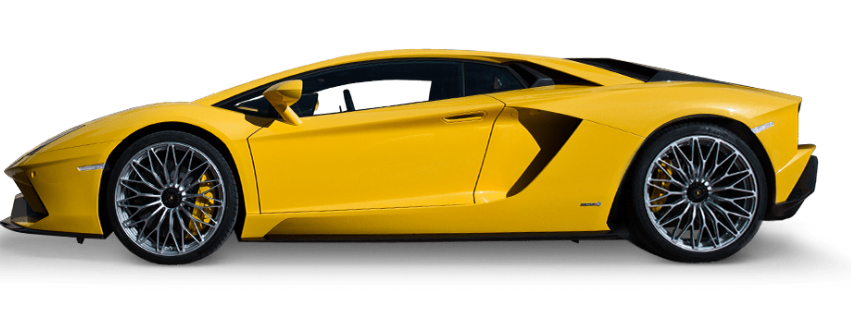
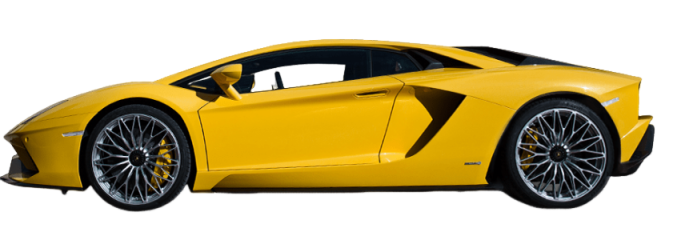
Terceiro commit. Criação da estilização, ajustes no html e novas imagens sem fundo.

diff --git a/style.css b/style.css
@@ -1,0 +1,200 @@
+*{
+    margin: 0;
+    padding: 0;
+    box-sizing: border-box;
+    list-style: none; /* Tira as bolinhas dos itens da lista*/
+}
+
+body{
+    background-color: #000000;
+    color: #ffffff;
+    font-style: 16px;
+    overflow: hidden; /* Tira a barra de rolagem*/
+}
+
+header {     
+    width: 100vw;    
+    position: fixed;
+    left: 50%;
+    transform: translateX(-50%);
+    display: grid;
+    align-items: center;
+    grid-template-columns: 1fr 600px;
+    z-index: 2; /* Trás o header para frente da section pois ela é relative*/
+   
+
+    & h1 {
+        margin-left: 150px;
+        margin-right: 100px;
+        font-size: 60px;
+        color: #cd0000;
+    }
+    
+    & nav {
+        & ul {
+            display: grid;
+            grid-template-columns: repeat(3, 150px);            
+        }
+    }
+
+    & a {
+        color: #ffffff;
+        font-size: 25px;
+        text-decoration: none;
+
+        &:hover {
+            color: #beff1b;
+        }
+    }
+}
+
+section {
+    background-image: radial-gradient(#470964, #791fd3);
+    height: 100vh;
+    position: relative;
+
+    & .list {
+        width: 70vw;
+        height: 100%;
+        margin: auto; /* Centraliza a div list */
+        position: relative;
+
+        & .item {
+            position: absolute; /* Posicionar a imagem onde desejarmos na tela */
+            inset: 0; /* É o mesmo que setar o top, botton, left e right todos com esse valor */
+
+            & .car-img {
+                position: absolute;
+                top: 50%;
+                transform: translateY(-50%);
+                width: 70%;
+
+                & img {
+                    width: 80%;
+                    transform: rotate(-20deg); /* Rotação do carro */
+                }
+            }
+        }
+
+        & .content {
+            position: absolute;
+            right: 100px;
+            width: 70%;
+            height: 100%;
+            margin-top: 35px;
+            display: flex;
+            flex-direction: column;
+            justify-content: center; /* Joga toda a div content para o centro*/
+            align-items: end; /* Alinha todos os itens dentro da div a direita*/
+            gap: 20px;            
+
+            & .car-information {
+                font-size: 25px;
+                font-weight: bold;
+            }
+
+            & h2 {
+                font-size: 120px;
+                line-height: 100px ;
+                margin-bottom: 40px;
+            }
+
+            & .description {
+                color: #d9d9d9;
+                font-size: 25px;
+                text-align: right;
+                max-width: 700px;
+            }
+
+            & .information {
+                border-radius: 30px;
+                height: 55px;
+                width: 180px;
+                text-transform: uppercase; /* Transforma todo o texto em maiusculo*/
+                border: 2px solid #791fd3;
+                background-color: #beff1b;
+                color: #000000;
+                cursor: pointer;
+                font-weight: bold;
+                font-size: 16px;
+            }
+        }
+
+        /* Linha entre as duas setas*/
+        &::before {
+            content: '';
+            position: absolute;
+            height: 200px;
+            width: 100%;
+            top: 50%;
+            border-top: 1px solid #ffffff
+        }
+    }
+   
+    & .arrows {
+        width: 71vw; /* Distância entre as setas*/
+        position: absolute;
+        top: 50%;
+        left: 50%;
+        transform: translate(-50%, -25px); /* Parâmetros X e Y*/
+        display: flex;
+        justify-content: space-between;
+
+        & button {
+            top: 60%;
+            width: 50px;
+            height: 50px;
+            border-radius: 50%;
+            border: none;
+            cursor: pointer;
+
+            & img {
+               width: 30px;
+               cursor: pointer; 
+            }
+
+            &:hover {
+                background-color: #beff1b;
+            }
+        }
+    }
+
+    & .indicators {
+        position: absolute;
+        top: 50%;
+        left: 50%;
+        transform: translate(-50%);
+        height: 200px;
+        width: 90vw;
+        display: flex;
+        flex-direction: column;
+        justify-content: end;
+        gap: 15px;
+        
+        & .number {
+            font-size: 5em;
+        }
+
+        & ul {
+            display: flex;
+            gap: 10px;
+
+            & li {
+                width: 50px;
+                height: 5px;
+                background-color: #beff1b;
+                transition: 0.5s;
+            }
+
+            & .active {
+                background-color: #ffffff; /* A classe que estiver ativa o tracinho fica branco*/
+            }
+        }
+    }
+}
+
+
+/*https://www.youtube.com/watch?v=AZ1drCVTDgs&t=16s&ab_channel=DevClub%7CPrograma%C3%A7%C3%A3o*/
+
+
+

diff --git a/index.html b/index.html
@@ -1,10 +1,15 @@
 <!DOCTYPE html>
 <html lang="pt-br">
+
 <head>
     <meta charset="UTF-8">
     <meta name="viewport" content="width=device-width, initial-scale=1.0">
+    <link rel="preconnect" href="https://fonts.googleapis.com">
+    <link rel="preconnect" href="https://fonts.gstatic.com" crossorigin>
+    <link rel="stylesheet" href="./style.css">
     <title>Visbeck Veículos</title>
 </head>
+
 <body>
     <header>
         <h1>Visbeck Veículos</h1>
@@ -27,9 +32,12 @@
                 <div class="content">
                     <p class="car-information">Único dono</p>
                     <h2>Ferrari</h2>
-                    <p class="description">A Ferrari é uma fabricante italiana de carros esportivos de luxo com sede em Maranello. Fundada por Enzo Ferrari em 1939 na divisão de corridas da Alfa Romeo com o nome Auto Avio Costruzioni, a empresa construiu seu primeiro carro em 1940.</p>
+                    <p class="description">A Ferrari é uma fabricante italiana de carros esportivos de luxo com sede em
+                        Maranello. Fundada por Enzo Ferrari em 1939 na divisão de corridas da Alfa Romeo com o nome Auto
+                        Avio Costruzioni, a empresa construiu seu primeiro carro em 1940.</p>
+                    <button class="information">Saiba Mais</button>
                 </div>
-                <button>Saiba Mais</button>
+
             </div>
         </div>
 
@@ -48,6 +56,7 @@
         </div>
 
     </section>
-    
+
 </body>
+
 </html>
